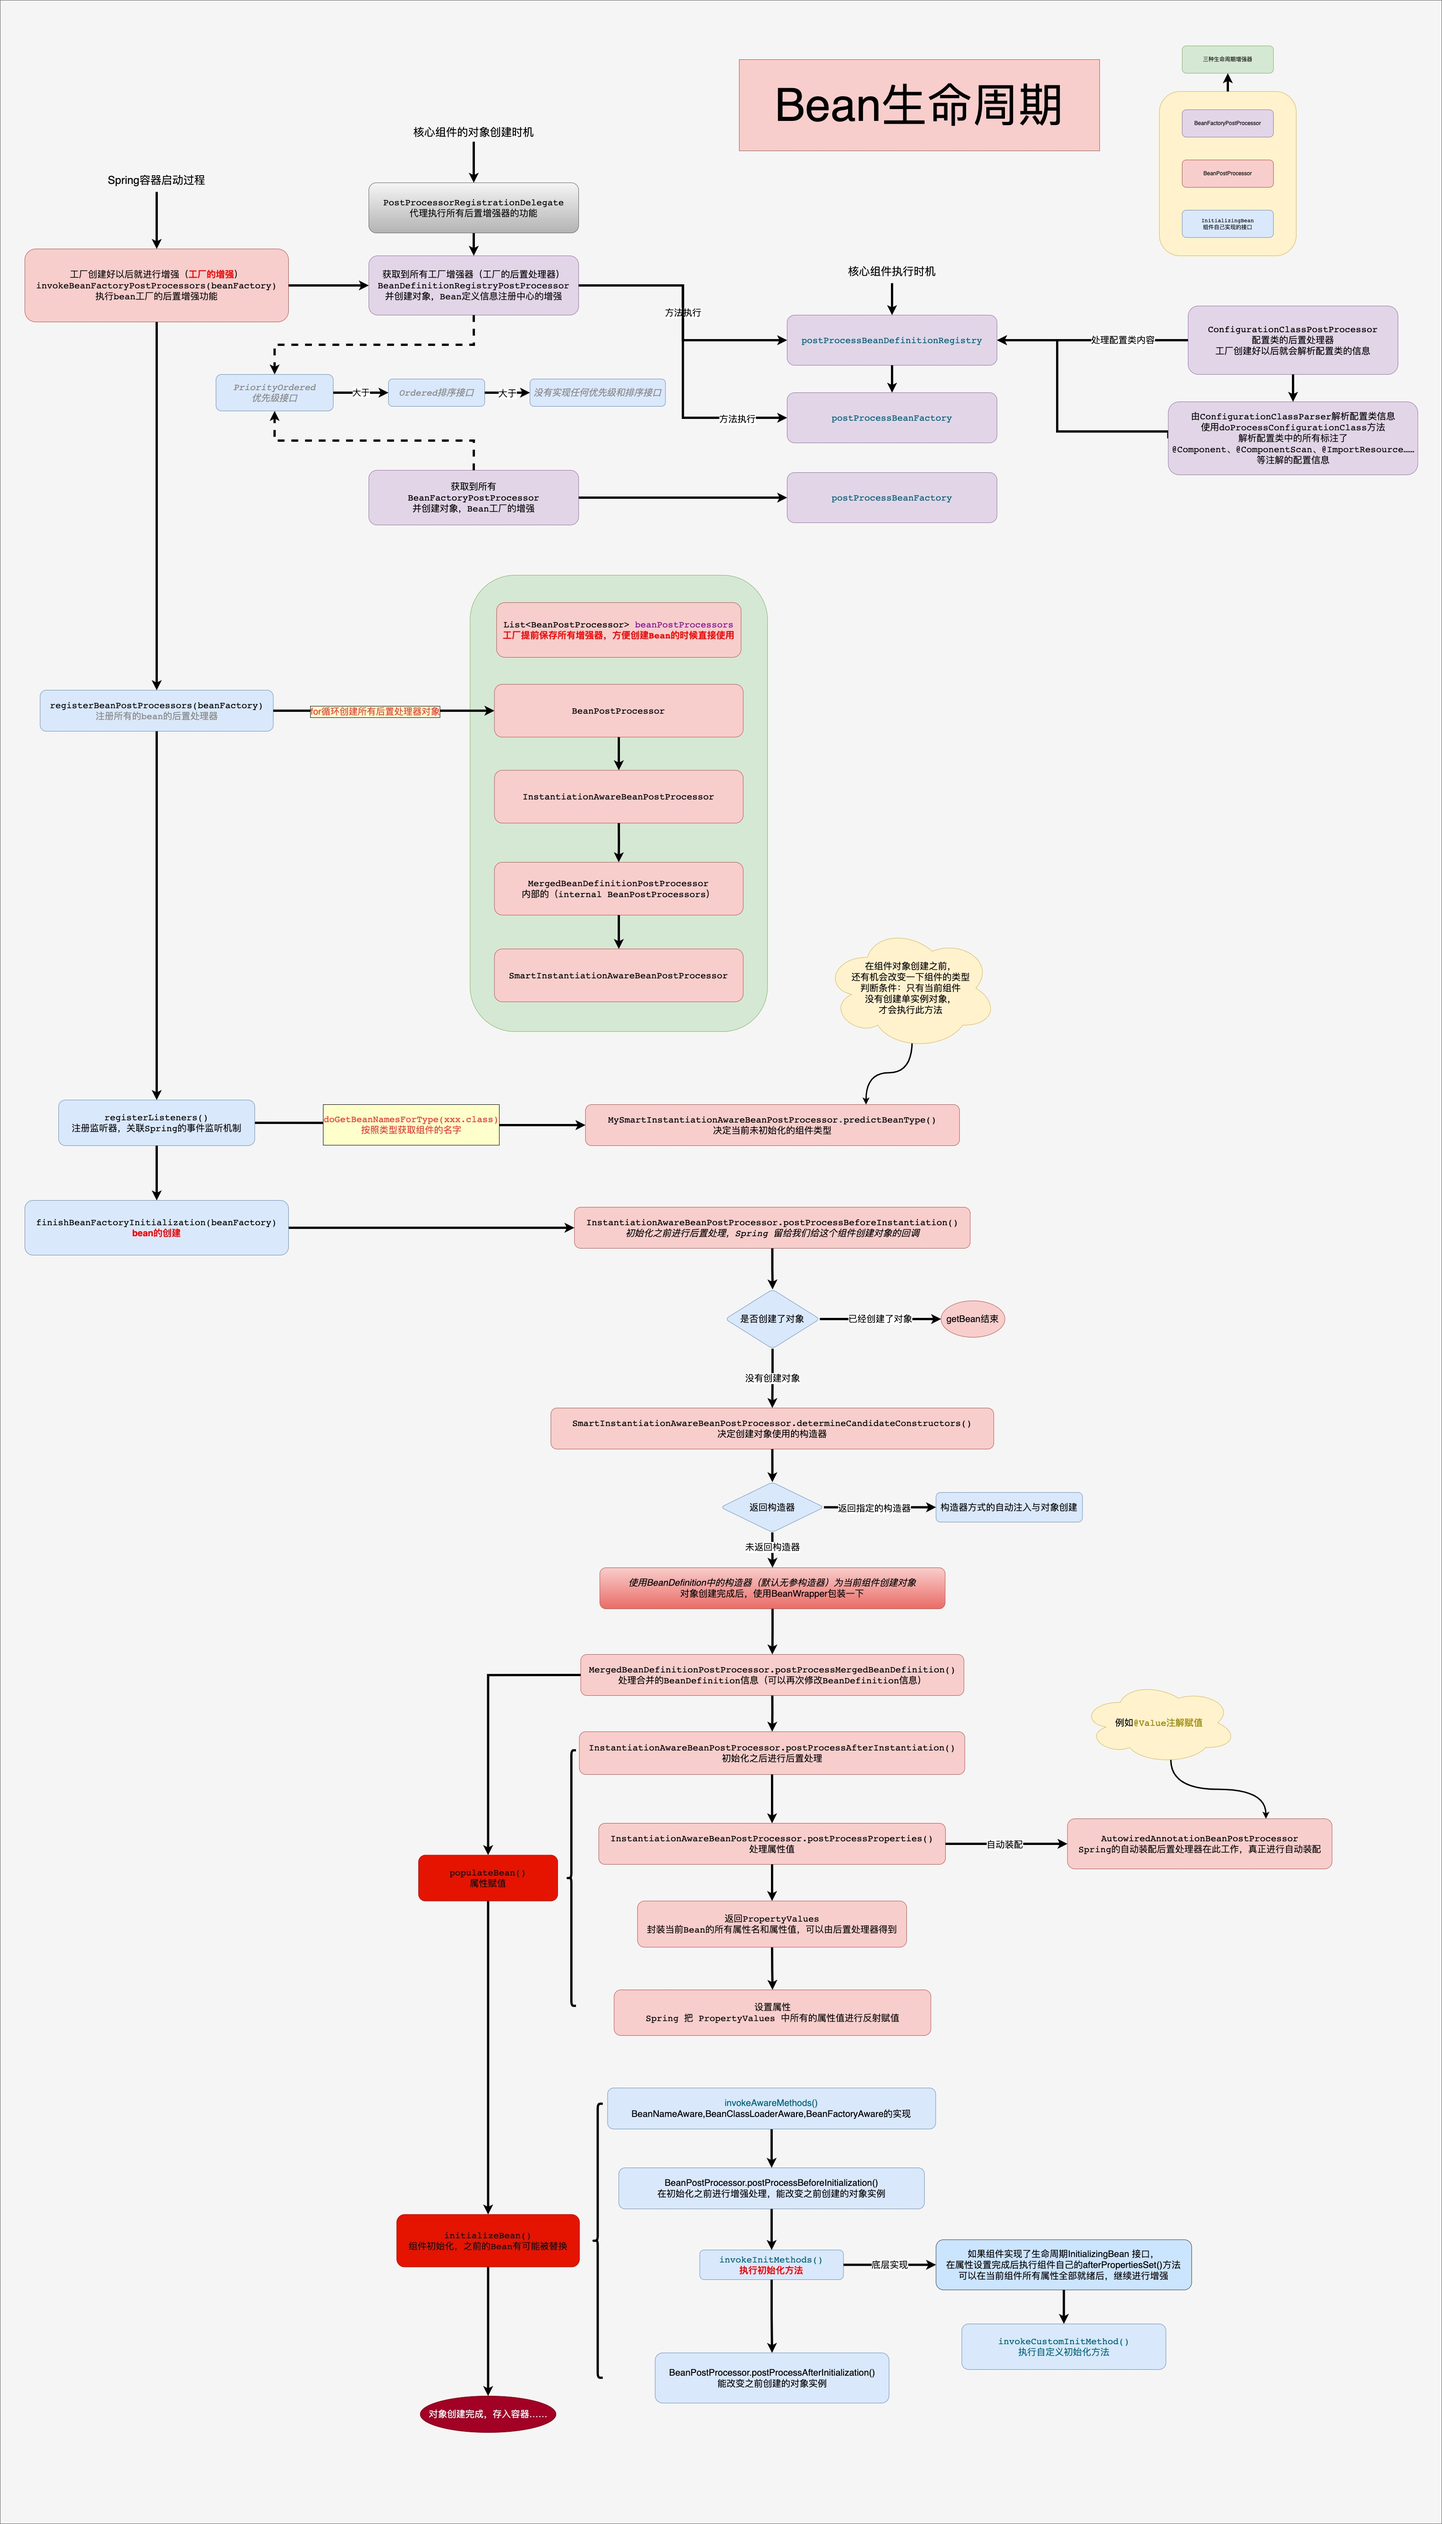
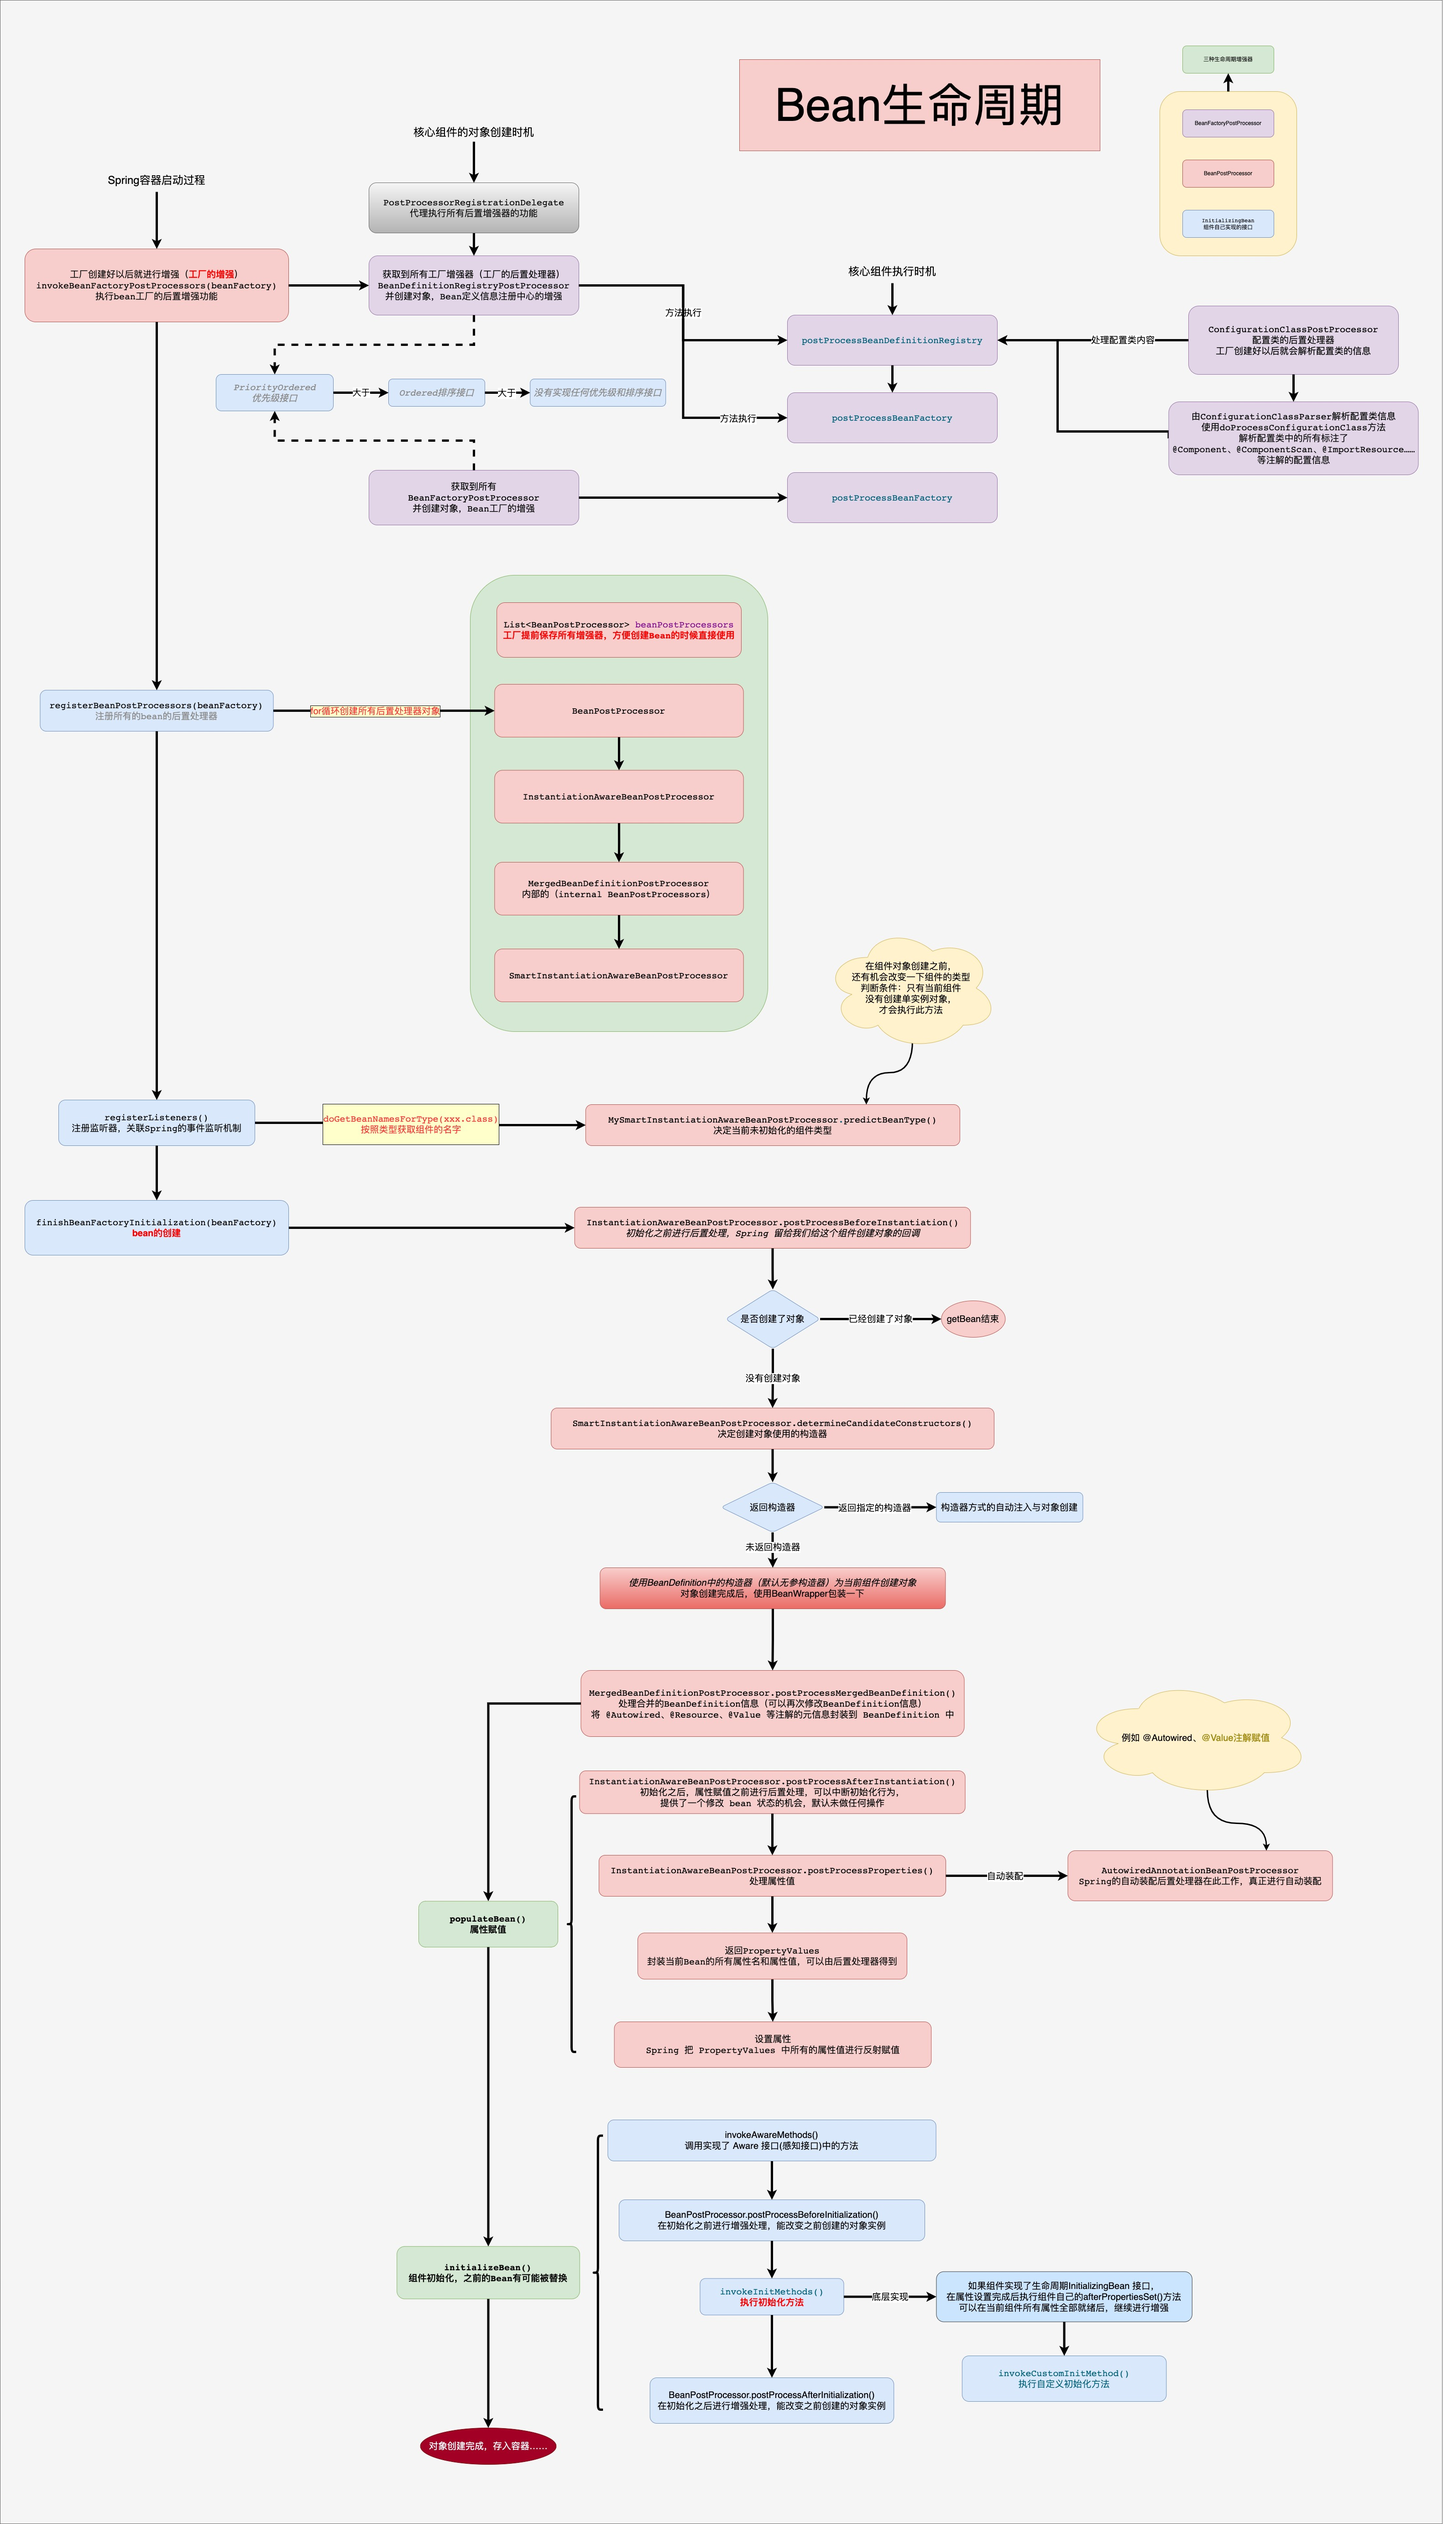
update

diff --git a/spring-beans/src/main/java/org/springframework/beans/factory/support/AbstractAutowireCapableBeanFactory.java b/spring-beans/src/main/java/org/springframework/beans/factory/support/AbstractAutowireCapableBeanFactory.java
@@ -586,7 +586,7 @@ public abstract class AbstractAutowireCapableBeanFactory extends AbstractBeanFac
 		if (instanceWrapper == null) {
 			/**
 			 * 创建 bean 的实例，默认使用无参构造器创建对象
-			 * 真正的创建对象，并生成其包装类 BeanWrapper，「装饰 Decorator 模式」
+			 * 真正的创建对象，并生成其包装类 BeanWrapper，属于装饰(Decorator)模式
 			 */
 			instanceWrapper = createBeanInstance(beanName, mbd, args);
 		}
@@ -603,7 +603,7 @@ public abstract class AbstractAutowireCapableBeanFactory extends AbstractBeanFac
 			if (!mbd.postProcessed) {
 				try {
 					/**
-					 * 对象实例创建完成后，后置处理器再次介入(MergedBeanDefinitionPostProcessor)，可以修改 BeanDefinition 信息。
+					 * 对象实例化之后，后置处理器再次介入(MergedBeanDefinitionPostProcessor)，可以修改 BeanDefinition 信息。
 					 * MergedBeanDefinitionPostProcessor 的主要职责，就是用来合并一些信息到 BeanDefinition 中的，
 					 * 尤其是 bean 的属性上添加了 @Autoired、@Value、@Resource 等注解，这些注解上面的信息是需要被纳入到 BeanDefinition 中
 					 * 比如，MergedBeanDefinitionPostProcessor 有很多实现类都是和解析注解上的 BeanDefinition 信息有关的，
@@ -1268,8 +1268,10 @@ public abstract class AbstractAutowireCapableBeanFactory extends AbstractBeanFac
 	 * @see #instantiateBean
 	 */
 	protected BeanWrapper createBeanInstance(String beanName, RootBeanDefinition mbd, @Nullable Object[] args) {
-		// Make sure bean class is actually resolved at this point.
-		// 解析 BeanDefinition 中的 "class" 属性，确保现在的 bean 的 Class 已经被解析好了
+		/**
+		 * 解析 BeanDefinition 中的 "class" 属性，确保现在的 bean 的 Class 已经被解析好了
+		 * Make sure bean class is actually resolved at this point.
+		 */
 		Class<?> beanClass = resolveBeanClass(mbd, beanName);
 
 		/**
@@ -1504,7 +1506,7 @@ public abstract class AbstractAutowireCapableBeanFactory extends AbstractBeanFac
 		// Give any InstantiationAwareBeanPostProcessors the opportunity to modify the
 		// state of the bean before properties are set. This can be used, for example,
 		// to support styles of field injection.
-		// 在属性赋值之前，后置处理器可以做些增强操作，可以中断初始化行为。(提供了一个修改 bean 状态的机会)
+		// 在属性赋值之前，后置处理器可以做些增强操作，可以中断初始化行为。(提供了一个修改 bean 状态的机会，默认未做任何操作)
 		if (!mbd.isSynthetic() && hasInstantiationAwareBeanPostProcessors()) {
 			for (InstantiationAwareBeanPostProcessor bp : getBeanPostProcessorCache().instantiationAware) {
 				if (!bp.postProcessAfterInstantiation(bw.getWrappedInstance(), beanName)) {
@@ -1519,14 +1521,14 @@ public abstract class AbstractAutowireCapableBeanFactory extends AbstractBeanFac
 		 */
 		PropertyValues pvs = (mbd.hasPropertyValues() ? mbd.getPropertyValues() : null);
 
-		// 获取 bean 的自动装配模式（根据名称注入/根据类型注入）
+		// 获取 bean 的自动装配模式(根据名称注入/根据类型注入/通过反射注入，这也是非 xml 配置的默认装配模式)
 		int resolvedAutowireMode = mbd.getResolvedAutowireMode();
 		// bean 属性的注入类型
 		if (resolvedAutowireMode == AUTOWIRE_BY_NAME || resolvedAutowireMode == AUTOWIRE_BY_TYPE) {
 			MutablePropertyValues newPvs = new MutablePropertyValues(pvs);
 			// Add property values based on autowire by name if applicable.
 			if (resolvedAutowireMode == AUTOWIRE_BY_NAME) {
-				// 根据名称注入
+				// 根据名称注入(使用 setter 方法，并且setter 方法的名称和属性名一致)
 				autowireByName(beanName, mbd, bw, newPvs);
 			}
 			// Add property values based on autowire by type if applicable.
@@ -1537,7 +1539,12 @@ public abstract class AbstractAutowireCapableBeanFactory extends AbstractBeanFac
 			pvs = newPvs;
 		}
 
-		// 检查 Spring 容器中，是否注册过后置处理器 InstantiationAwareBeanPostProcessor
+		/**
+		 * 检查 Spring 容器中，是否注册过后置处理器 InstantiationAwareBeanPostProcessor
+		 * 它是 BeanPostProcessor 的子接口，可以在 Bean 生命周期的另外两个时期提供扩展的回调接口，
+		 * 即实例化 Bean 之前（调用 postProcessBeforeInstantiation方法）介入
+		 * 和实例化 Bean 之后（调用 postProcessAfterInstantiation 方法）介入
+		 */
 		boolean hasInstAwareBpps = hasInstantiationAwareBeanPostProcessors();
 		// 检查是否需要对属性进行引用检查
 		boolean needsDepCheck = (mbd.getDependencyCheck() != AbstractBeanDefinition.DEPENDENCY_CHECK_NONE);
@@ -1553,7 +1560,7 @@ public abstract class AbstractAutowireCapableBeanFactory extends AbstractBeanFac
 			for (InstantiationAwareBeanPostProcessor bp : getBeanPostProcessorCache().instantiationAware) {
 				/**
 				 * 处理属性的后置处理器开始工作，将注解元信息封装成键值对
-				 * 例如自动装配功能再此执行 AutowiredAnnotationBeanPostProcessor 处理 @Autowired、@Value 注解标注的原信息
+				 * 例如自动装配功能再此执行 AutowiredAnnotationBeanPostProcessor 处理 @Autowired、@Value 注解标注的元信息
 				 */
 				PropertyValues pvsToUse = bp.postProcessProperties(pvs, bw.getWrappedInstance(), beanName);
 				if (pvsToUse == null) {

diff --git a/spring-beans/src/main/java/org/springframework/beans/factory/annotation/AutowiredAnnotationBeanPostProcessor.java b/spring-beans/src/main/java/org/springframework/beans/factory/annotation/AutowiredAnnotationBeanPostProcessor.java
@@ -451,7 +451,6 @@ public class AutowiredAnnotationBeanPostProcessor implements SmartInstantiationA
 		}
 	}
 
-
 	private InjectionMetadata findAutowiringMetadata(String beanName, Class<?> clazz, @Nullable PropertyValues pvs) {
 		/**
 		 * 如果 beanName 有值，则以 beanName 作为 cacheKey，否则使用类的全限定名作为 cacheKey
@@ -459,7 +458,10 @@ public class AutowiredAnnotationBeanPostProcessor implements SmartInstantiationA
 		 */
 		String cacheKey = (StringUtils.hasLength(beanName) ? beanName : clazz.getName());
 
-		// 根据 cacheKey 从缓存中获取对应的信息数据。Quick check on the concurrent map first, with minimal locking.
+		/**
+		 * 根据 cacheKey 从缓存中获取对应注解 @Autowired、@Value 的注解元数据
+		 * Quick check on the concurrent map first, with minimal locking.
+		 */
 		InjectionMetadata metadata = this.injectionMetadataCache.get(cacheKey);
 		// 判断是否需要刷新当前的缓存数据
 		if (InjectionMetadata.needsRefresh(metadata, clazz)) {
@@ -472,8 +474,11 @@ public class AutowiredAnnotationBeanPostProcessor implements SmartInstantiationA
 					/**
 					 * 从类 clazz 中获取注解元数据
 					 * 分析当前类的方法或属性是都有标注 @Autowired、@Value、@Inject 自动赋值的注解，然后封装为 InjectedElement
+					 * 即 bean 实例化之后，后置处理器将会执行此方法，将 @Autowired、@Value 的注解元数据放入缓存中，
+					 * 以便在 bean 属性赋值时使用，直接从缓存中获取注解元数据
 					 */
 					metadata = buildAutowiringMetadata(clazz);
+					// 缓存注解元数据
 					this.injectionMetadataCache.put(cacheKey, metadata);
 				}
 			}

diff --git a/spring-beans/src/main/java/org/springframework/beans/factory/support/AbstractBeanDefinition.java b/spring-beans/src/main/java/org/springframework/beans/factory/support/AbstractBeanDefinition.java
@@ -66,7 +66,7 @@ public abstract class AbstractBeanDefinition extends BeanMetadataAttributeAccess
 	public static final String SCOPE_DEFAULT = "";
 
 	/**
-	 * 默认不进行自动装配
+	 * 通过反射装配(注入)，非 xml 配置的默认装配模式，即 @Autowire 注解的默认装配模式
 	 * Constant that indicates no external autowiring at all.
 	 * @see #setAutowireMode
 	 */
@@ -636,7 +636,7 @@ public abstract class AbstractBeanDefinition extends BeanMetadataAttributeAccess
 			return AUTOWIRE_CONSTRUCTOR;
 		}
 		else {
-			// 默认的装配模式（AUTOWIRE_NO == 0，不自动装配）
+			// AUTOWIRE_NO == 0，通过反射装配(注入)，非 xml 配置的默认装配模式，即 @Autowire 注解的默认装配模式
 			return this.autowireMode;
 		}
 	}

diff --git a/colin-source-test/src/main/java/com/colin/bean/HelloFactory.java b/colin-source-test/src/main/java/com/colin/bean/HelloFactory.java
@@ -14,7 +14,7 @@ import org.springframework.stereotype.Component;
  * @author colin
  * @create 2021-03-19 08:57
  */
-@Component  // 也可以通过实现 SmartFactoryBean 来指定提前加载
+//@Component  // 也可以通过实现 SmartFactoryBean 来指定提前加载
 public class HelloFactory implements FactoryBean<Hello> {
 
 	@Override

diff --git a/colin-source-test/src/main/java/com/colin/bean/Person.java b/colin-source-test/src/main/java/com/colin/bean/Person.java
@@ -9,7 +9,7 @@ import org.springframework.stereotype.Component;
  * @author colin
  * @create 2021-03-12 14:03
  */
-@Component
+//@Component
 public class Person {
 
 	public String name;

diff --git a/colin-source-test/src/main/java/com/colin/bean/cycle/B.java b/colin-source-test/src/main/java/com/colin/bean/cycle/B.java
@@ -7,7 +7,7 @@ import org.springframework.stereotype.Component;
  * @author colin
  * @create 2021-03-20 15:50
  */
-//@Component
+@Component
 public class B {
 
 	/*@Autowired

diff --git a/colin-source-test/src/main/java/com/colin/bean/cycle/A.java b/colin-source-test/src/main/java/com/colin/bean/cycle/A.java
@@ -8,7 +8,7 @@ import org.springframework.stereotype.Component;
  * @author colin
  * @create 2021-03-20 15:50
  */
-//@Component
+@Component
 public class A {
 
 	@Autowired

diff --git a/colin-source-test/src/main/java/com/colin/demo/AnnotationDemo.java b/colin-source-test/src/main/java/com/colin/demo/AnnotationDemo.java
@@ -25,7 +25,7 @@ public class AnnotationDemo {
 		/*aopTest();*/
 		/*testBean();*/
 		/*testFactoryBean();*/
-		/*testCycle();*/
+		testCycle();
 		/*listenerTest();*/
 	}
 

diff --git a/colin-source-test/src/main/java/com/colin/bean/Hello.java b/colin-source-test/src/main/java/com/colin/bean/Hello.java
@@ -6,6 +6,6 @@ import org.springframework.stereotype.Component;
  * @author colin
  * @create 2021-03-19 09:03
  */
-//@Component
+@Component
 public class Hello {
 }
